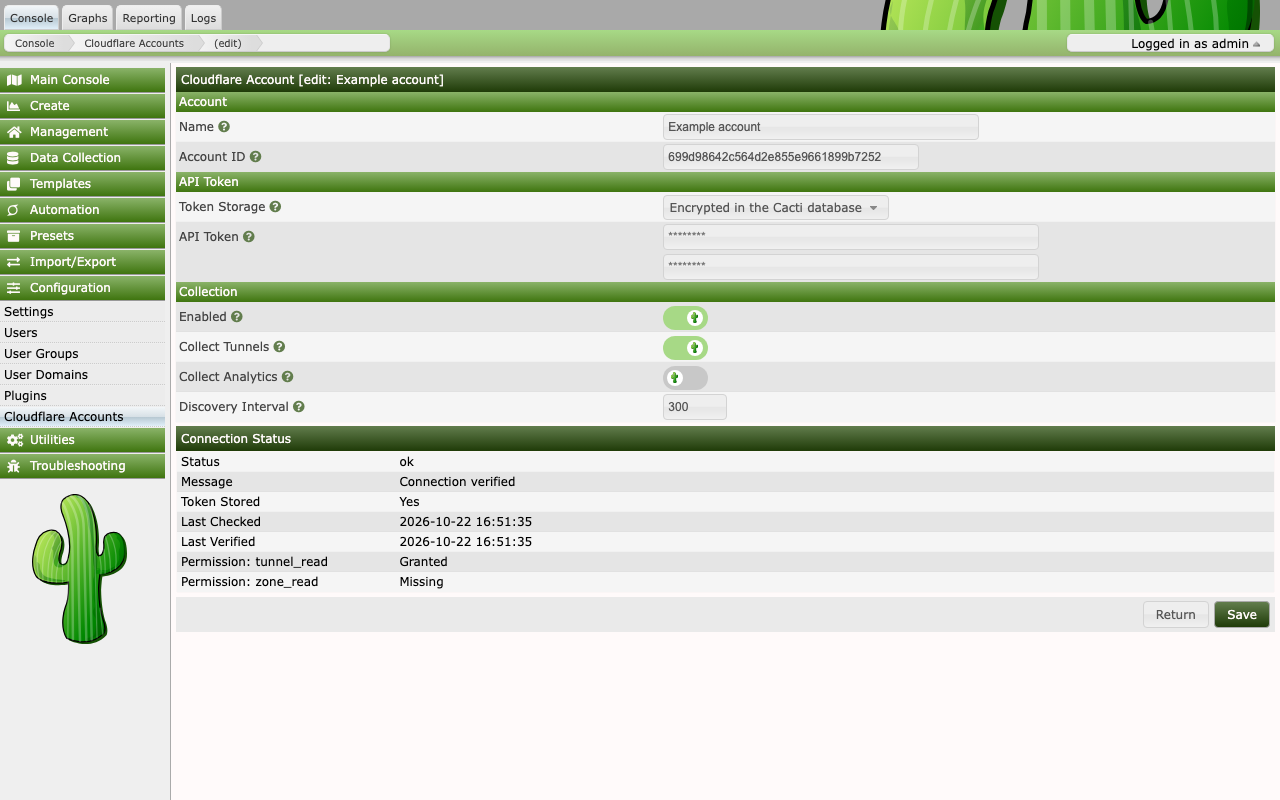
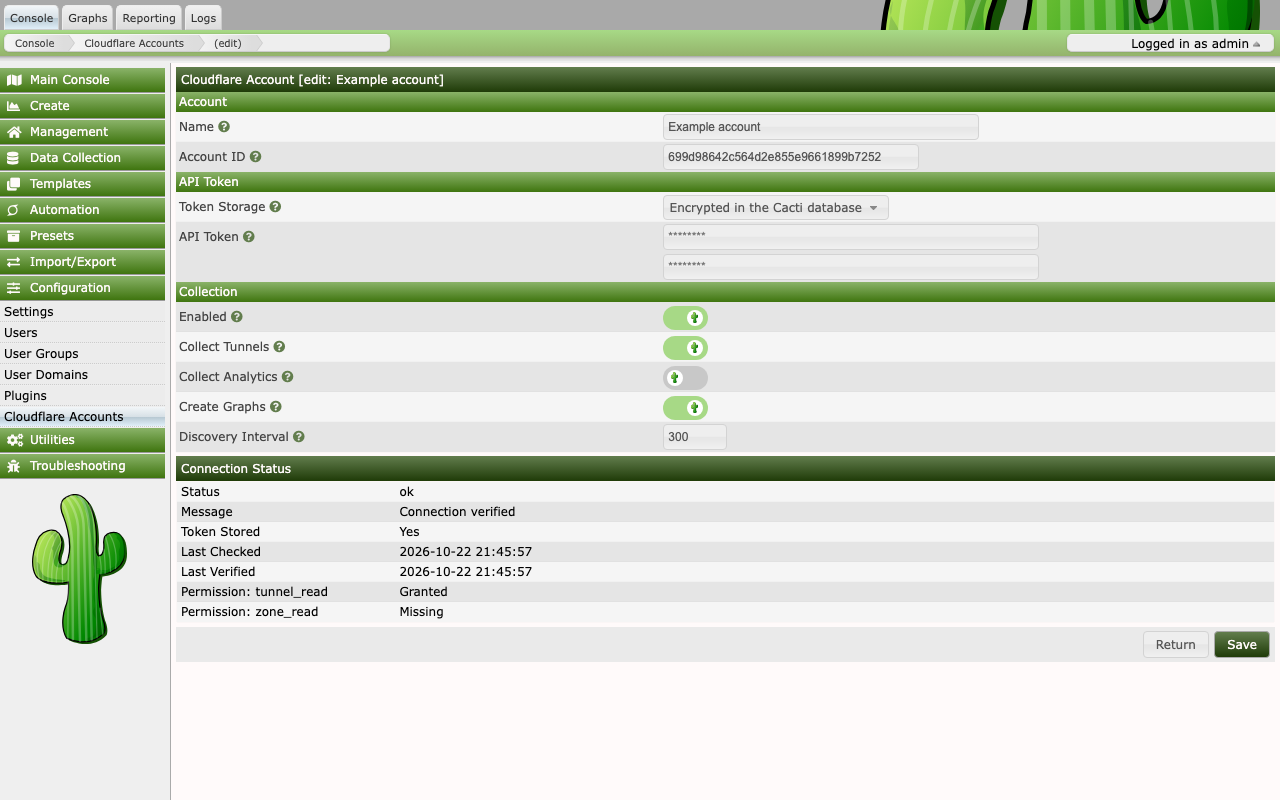
test: exercise metrics end to end in the smoke stack

Changed region(s): [[0.125, 0.4688, 1.0, 0.8438]]

diff --git a/docs/compatibility.md b/docs/compatibility.md
@@ -8,7 +8,7 @@ from [`research/cloudflare-api-facts.md`](research/cloudflare-api-facts.md).
 
 | Component | Supported | Tested |
 |---|---|---|
-| Cacti | 1.2.25 through 1.2.31 (`compat = 1.2.25` in INFO) | 1.2.31, by the install smoke |
+| Cacti | 1.2.25 through 1.2.31 (`compat = 1.2.25` in INFO) | 1.2.31 by `make smoke`; 1.2.25 by `make smoke CACTI_REF=release/1.2.25`, passed on 2026-10-22 |
 | PHP | 7.4 through 8.4 | Unit tests on 7.4, 8.1, 8.2, 8.3, 8.4; integration on 7.4 and 8.3; smoke on 8.0; `php -l` on 7.4 |
 | Database | MariaDB 10.6 and later, MySQL 8.0 and later | CI: MariaDB 10.11, MySQL 8.4. Integration tests and BDD features also run locally on 2026-10-22 against MariaDB 10.6.28 and MySQL 8.0.46; not part of CI |
 | PHP extensions | `curl`, `openssl`, `pdo_mysql` | Checked by `plugin_cloudflare_check_config()` |
@@ -72,6 +72,15 @@ the top of `cloudflare_accounts.php` and `cloudflare.php`.
 Every Cacti function and hook above exists in `release/1.2.25`. The page
 calls `CactiSecureHeaders::getNonceAttribute()` only when that class exists,
 because older 1.2 releases do not have it.
+
+### The smoke on 1.2.25
+
+`make smoke CACTI_REF=release/1.2.25` builds the same PHP 8.0 image from the
+1.2.25 tag, tagged `cf-smoke-cacti:1.2.25`, and runs every smoke step,
+including device creation, graph creation and the RRD checks. On 2026-10-22
+all steps passed. `cli/plugin_manage.php` in 1.2.25 enables a plugin only
+together with `--install`, so for an installed plugin the smoke calls
+`api_plugin_enable()`, as `plugins.php` does.
 
 Helpers added after 1.2.25, such as `cacti_redact_sensitive()` and
 `cacti_plugin_path()`, are not called. The plugin carries its own redaction.
